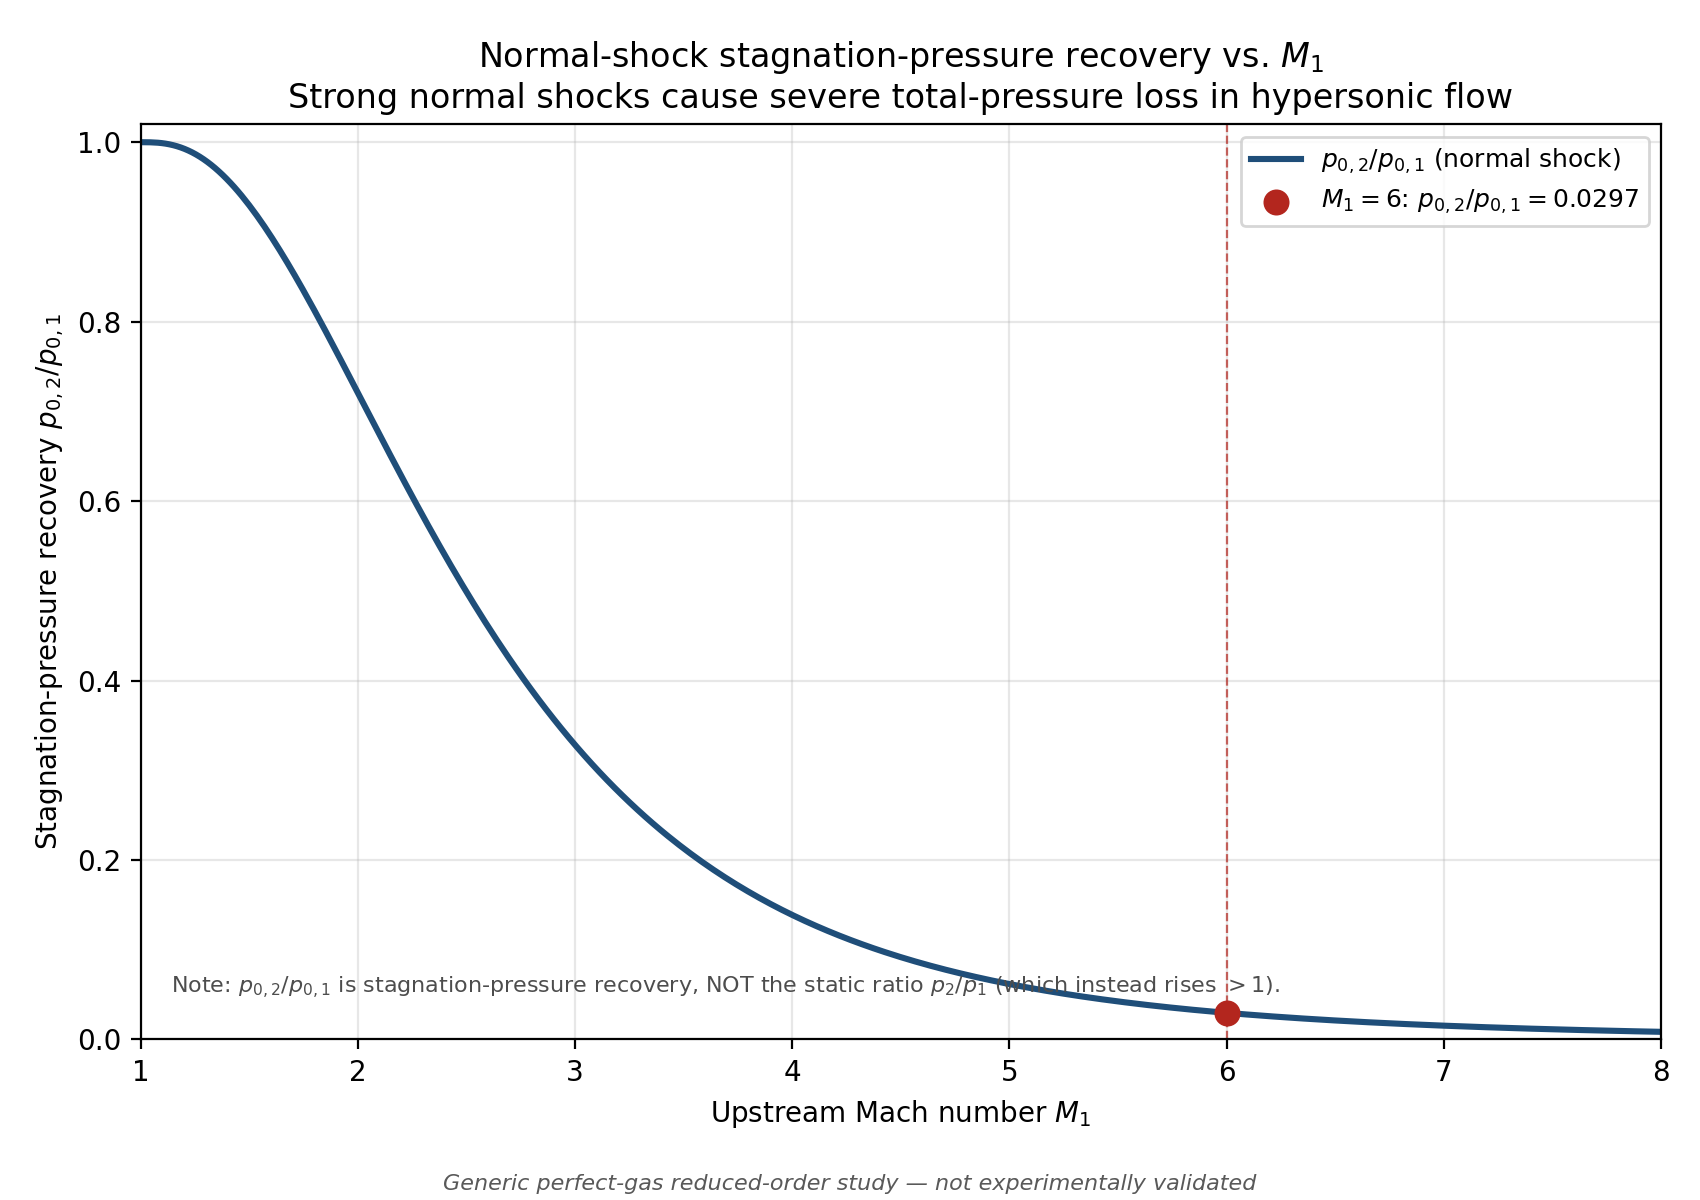
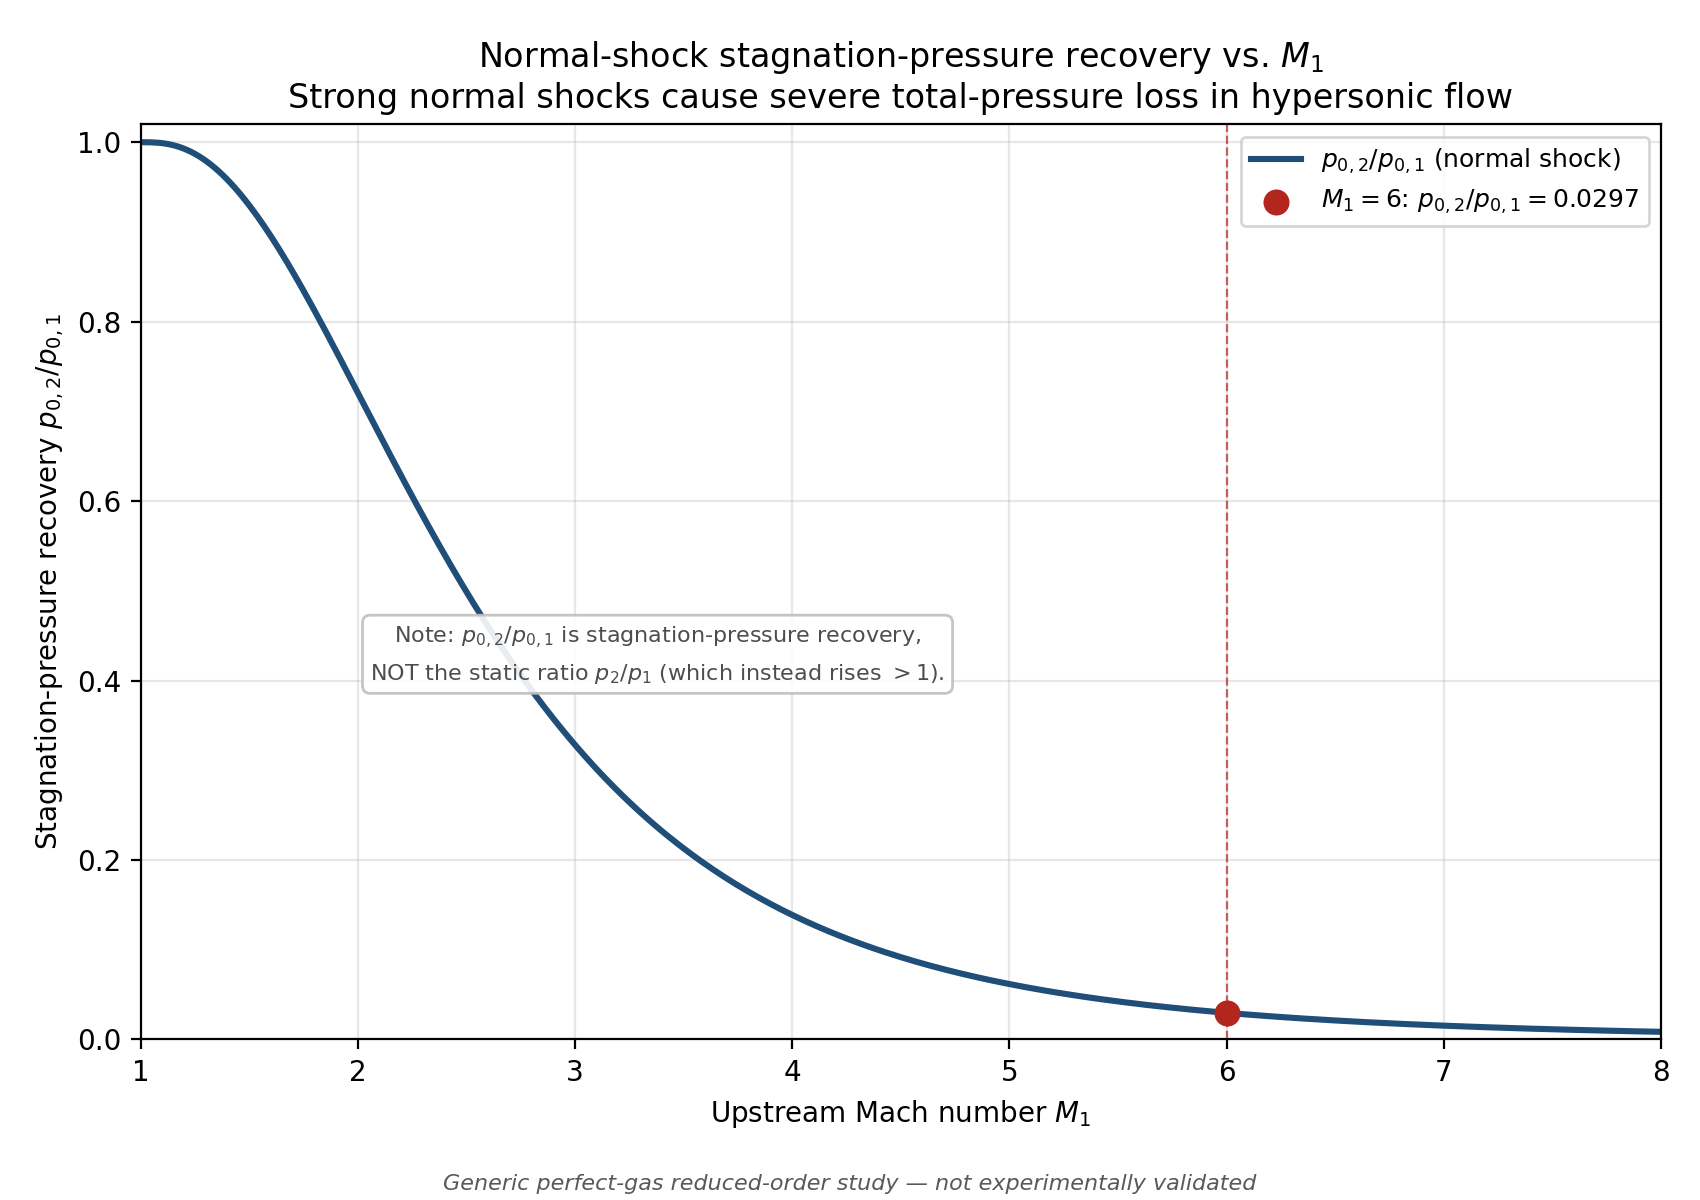
Presentation cleanup: fix misleading fig7 claim and figure crowding
Strict presentation-only pass over the M1-M2 figures. No equations,
numerical methods, inputs, computed values, tests, physics modules, or
engineering conclusions were changed -- only visible prose/layout in
the figure-generation scripts.

Required fix:
- fig7_weak_vs_strong_vs_normal_M1_6_theta10.png: the bottom-panel
  claim "comparable static compression at a fraction of the
  total-pressure loss" was not supported by the plotted values
  (p2/p1=3.67 weak vs. ~41.8 strong/normal -- a ~11x difference, not
  comparable). Replaced with "it preserves far more total pressure, at
  the cost of substantially less compression per shock." All plotted
  bars/values are unchanged.

Presentation-only fixes:
- fig7: increased vertical separation between the engineering-takeaway
  text and the bottom validation caption (wrapped the takeaway onto
  two lines and increased the reserved bottom margin) so they no
  longer visually compete.
- fig6: the italic lower-panel annotation now has a subtle white
  background box so it stays legible and visually distinct from the
  stagnation-pressure-recovery curve passing behind it.
- fig5: moved the legend from "center right" (touching the weak-branch
  curve) to "lower right" (a genuinely empty region of the plot),
  obscuring neither branch.
- fig3: tightened the large vertical whitespace between the bar
  panels and the bottom summary box (reduced gridspec hspace and
  figure height, adjusted margins) without crowding either element.
[…]

Changed region(s): [[0.2182, 0.4933, 0.5612, 0.5858], [0.2182, 0.8017, 0.7482, 0.8325], [0.0935, 0.8017, 0.1871, 0.8325]]

diff --git a/scripts/generate_m1_figures.py b/scripts/generate_m1_figures.py
@@ -120,13 +120,23 @@ def make_figure2() -> None:
     ax.grid(alpha=0.3)
     ax.legend(loc="upper right", fontsize=9)
     ax.text(
-        0.02,
-        0.05,
-        r"Note: $p_{0,2}/p_{0,1}$ is stagnation-pressure recovery, "
+        0.34,
+        0.42,
+        r"Note: $p_{0,2}/p_{0,1}$ is stagnation-pressure recovery,"
+        "\n"
         r"NOT the static ratio $p_2/p_1$ (which instead rises $>1$).",
         transform=ax.transAxes,
+        ha="center",
+        va="center",
         fontsize=8,
         color="0.3",
+        linespacing=1.6,
+        bbox={
+            "boxstyle": "round,pad=0.35",
+            "facecolor": "white",
+            "edgecolor": "0.75",
+            "alpha": 0.9,
+        },
     )
 
     fig.tight_layout(rect=(0, 0.03, 1, 1))
@@ -151,8 +161,8 @@ def make_figure3() -> None:
     V1 = float(velocity_from_mach(M1_REP, T1_REP, GAMMA, R))
     V2 = float(velocity_from_mach(M2, T2, GAMMA, R))
 
-    fig = plt.figure(figsize=(11.5, 6.2))
-    gs = fig.add_gridspec(2, 2, height_ratios=[2.4, 0.7], hspace=0.42, wspace=0.30)
+    fig = plt.figure(figsize=(11.5, 5.6))
+    gs = fig.add_gridspec(2, 2, height_ratios=[2.4, 0.7], hspace=0.12, wspace=0.30)
     ax_bar = fig.add_subplot(gs[0, 0])
     ax_M = fig.add_subplot(gs[0, 1])
     ax_text = fig.add_subplot(gs[1, :])
@@ -240,7 +250,7 @@ def make_figure3() -> None:
         rf"$T_1={T1_REP:g}\,\mathrm{{K}}$, $p_1={P1_REP:g}\,\mathrm{{Pa}}$",
         fontsize=13,
     )
-    fig.subplots_adjust(left=0.09, right=0.97, top=0.84, bottom=0.10)
+    fig.subplots_adjust(left=0.09, right=0.97, top=0.85, bottom=0.13)
     _stamp_caption(fig)
     fig.savefig(FIGURES_DIR / "fig3_representative_M1_6_state_comparison.png", dpi=200)
     plt.close(fig)

diff --git a/scripts/generate_m2_figures.py b/scripts/generate_m2_figures.py
@@ -153,7 +153,7 @@ def make_figure5() -> None:
     ax.set_xlim(0, theta_max_deg * 1.05)
     ax.set_ylim(0, 90)
     ax.grid(alpha=0.3)
-    ax.legend(loc="center right", fontsize=8.5)
+    ax.legend(loc="lower right", fontsize=8.5)
 
     fig.tight_layout(rect=(0, 0.03, 1, 1))
     _stamp_caption(fig)
@@ -219,6 +219,12 @@ def make_figure6() -> None:
         fontsize=9,
         style="italic",
         color="0.3",
+        bbox={
+            "boxstyle": "round,pad=0.3",
+            "facecolor": "white",
+            "edgecolor": "0.75",
+            "alpha": 0.85,
+        },
     )
 
     fig.tight_layout(rect=(0, 0.03, 1, 0.97))
@@ -297,12 +303,14 @@ def make_figure7() -> None:
         fontsize=13,
     )
     fig.text(
-        0.5, 0.05,
+        0.5, 0.085,
         "Weak-shock compression is normally preferred for external hypersonic inlet "
-        "compression: comparable static compression at a fraction of the total-pressure loss.",
-        ha="center", fontsize=8.5, style="italic", color="0.3",
+        "compression:\n"
+        "it preserves far more total pressure, at the cost of substantially less "
+        "compression per shock.",
+        ha="center", va="bottom", fontsize=8.5, style="italic", color="0.3", linespacing=1.6,
     )
-    fig.tight_layout(rect=(0, 0.085, 1, 0.93))
+    fig.tight_layout(rect=(0, 0.13, 1, 0.93))
     _stamp_caption(fig)
     fig.savefig(FIGURES_DIR / "fig7_weak_vs_strong_vs_normal_M1_6_theta10.png", dpi=200)
     plt.close(fig)
